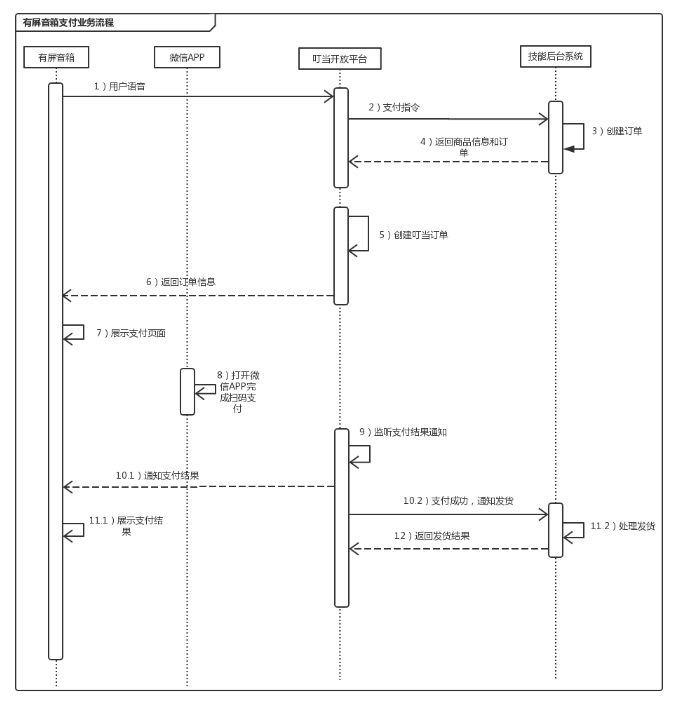
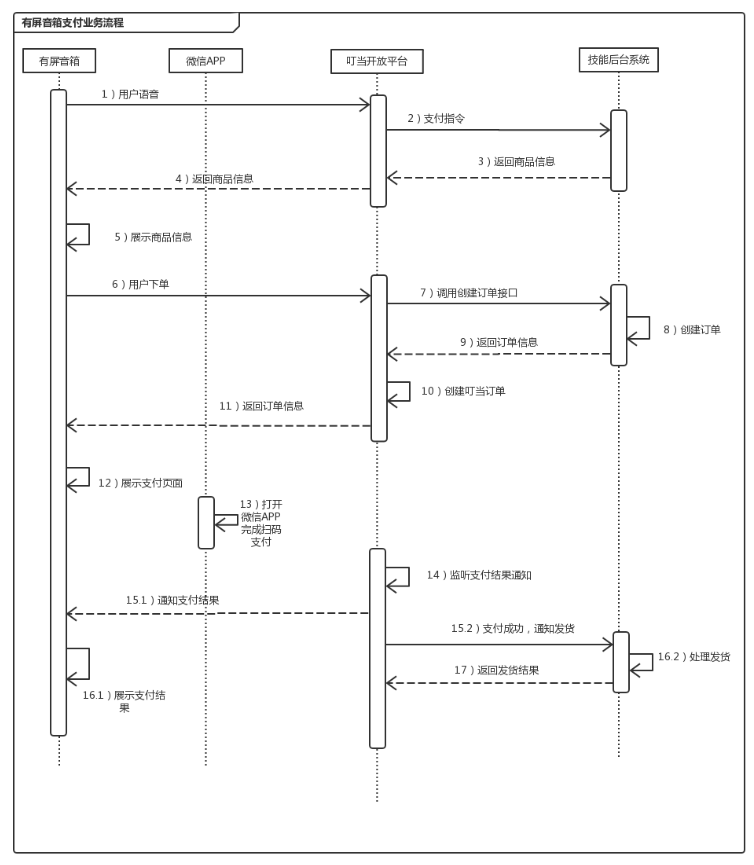
修改支付流程和协议字段、，添加新接口

Changed region(s): [[0.0, 0.0, 0.9956, 0.9958], [0.9022, 0.1556, 0.9333, 0.1867]]

diff --git a/documents/pay.md b/documents/pay.md
@@ -18,7 +18,43 @@
 
 **注意：该文档中的请求接口都需要安全验证，验证方法：[安全签名](./security.md)**
 
-### 1 通知发货
+### 1 创建订单
+
+用户下单时，叮当调用合作方提供的接口创建订单，合作商需要接收处理，并返回应答。
+
+**接口链接：合作方提供**
+
+**请求方法：post**
+
+ **参数说明：json格式**
+
+| 参数            | 必填 | 描述                   | 类型         |
+| --------------- | ---- | ---------------------- | ------------ |
+| `skillId`      | 是   | 技能ID，叮当平台分配   | `string(20)` |
+| `userId` | 是   | 合作方用户id | `string(32)` |
+| `itemId` | 是   | 合作方商品id，唯一标识商品 | `string(32)` |
+| `quantity` | 是 | 商品数量 | `int` |
+| `totalAmt`      | 是   | 订单总金额，以分为单位 | `long`    |
+| `nonceStr`      | 是   | 随机字符串             | `string(32)` |
+
+
+
+**返回参数：**
+
+| 参数      | 必填 | 描述                                  | 类型         |
+| --------- | ---- | ------------------------------------- | ------------ |
+| `retCode` | 是   | 返回码, SUCCESS/FAIL，SUCCESS表示成功 | `string(8)`  |
+| `retMsg`  | 否   | 错误描述                              | `string(32)` |
+
+**以下字段在retCode为SUCCESS时返回**
+
+| 参数      | 必填 | 描述                       | 类型         |
+| --------- | ---- | -------------------------- | ------------ |
+| `tradeNo` | 是   | 合作方订单号，需要保证唯一 | `string(64)` |
+
+
+
+### 2 通知发货
 
 用户支付成功后，叮当会通知合作商发货给用户，合作商需要接收处理，并返回应答。
 
@@ -34,10 +70,10 @@
 
 | 参数            | 必填 | 描述                   | 类型         |
 | --------------- | ---- | ---------------------- | ------------ |
-| `domainId`      | 是   | 技能ID，叮当平台分配   | `string(20)` |
+| `skillId`      | 是   | 技能ID，叮当平台分配   | `string(20)` |
 | `transactionId` | 是   | 叮当平台交易流水号     | `string(32)` |
 | `tradeNo`       | 是   | 合作方订单号           | `string(32)` |
-| `totalAmt`      | 是   | 订单总金额，以分为单位 | `int`        |
+| `totalAmt`      | 是   | 订单总金额，以分为单位 | `long`    |
 | `nonceStr`      | 是   | 随机字符串             | `string(32)` |
 
 
@@ -54,8 +90,7 @@
 
 
 
-
-### 2 查询订单
+### 3 查询订单
 
  **接口链接：https://aiwx.html5.qq.com/paycgi/orderquery**
 
@@ -65,7 +100,7 @@
 
 | 参数            | 必填   | 描述                                               | 类型         |
 | --------------- | ------ | -------------------------------------------------- | ------------ |
-| `domainId`      | 是     | 技能ID，叮当平台分配                               | `string(20)` |
+| `skillId`      | 是     | 技能ID，叮当平台分配                               | `string(20)` |
 | `transactionId` | 二选一 | 叮当平台交易流水号，`transactionId，tradeNo`二选一 | `string(32)` |
 | `tradeNo`       | 二选一 | 合作方订单号`transactionId，tradeNo`二选一         | `string(32)` |
 | `nonceStr`      | 是     | 随机字符串                                         | `string(32)` |
@@ -77,20 +112,20 @@
 | `retCode` | 是   | 返回码，SUCCESS/FAIL，SUCCESS表示成功 | `string(8)`  |
 | `retMsg`  | 否   | 错误描述                              | `string(32)` |
 
-**以下字段在retCode为0时返回**
+**以下字段在retCode为SUCCESS时返回**
 
 | 参数              | 必填 | 描述                                                         | 类型         |
 | ----------------- | ---- | ------------------------------------------------------------ | ------------ |
-| `domainId`        | 是   | 技能ID，叮当平台分配                                         | `string(20)` |
+| `skillId`        | 是   | 技能ID，叮当平台分配                                         | `string(20)` |
 | `transactionId`   | 是   | 叮当平台交易流水号                                           | `string(32)` |
 | `tradeNo`         | 是   | 合作方订单号                                                 | `string(32)` |
-| `totalAmt`        | 是   | 订单总金额，以分为单位                                       | `int`        |
+| `totalAmt`        | 是   | 订单总金额，以分为单位                                       | `long`    |
 | `tradeStatus`     | 是   | 订单状态， NOTPAY 未支付，PROCESSING支付中，SUCCESS支付成功，FAIL支付失败 | `string(16)` |
 | `tradeStatusDesc` | 是   | 订单状态描述                                                 | `string(16)` |
 
 
 
-### 3 申请退款
+### 4 申请退款
 
  **接口链接：https://aiwx.html5.qq.com/paycgi/refund**
 
@@ -100,12 +135,12 @@
 
 | 参数            | 必填   | 描述                   | 类型         |
 | --------------- | ------ | ---------------------- | ------------ |
-| `domainId`      | 是     | 技能ID，叮当平台分配   | `string(20)` |
+| `skillId`      | 是     | 技能ID，叮当平台分配   | `string(20)` |
 | `transactionId` | 二选一 | 叮当平台交易流水号     | `string(32)` |
 | `tradeNo`       | 二选一 | 合作方订单号           | `string(32)` |
 | `refundTradeNo` | 是     | 合作方退款订单号       | `string(32)` |
-| `totalAmt`      | 是     | 订单总金额，以分为单位 | `int`        |
-| `refundAmt`     | 是     | 退款总金额，以分为单位 | `int`        |
+| `totalAmt`      | 是     | 订单总金额，以分为单位 | `long`    |
+| `refundAmt`     | 是     | 退款总金额，以分为单位 | `long`   |
 | `refundDesc`    | 否     | 退款原因描述           | `string(64)` |
 | `nonceStr`      | 是     | 随机字符串             | `string(32)` |
 
@@ -116,21 +151,21 @@
 | `retCode` | 是   | 返回码，SUCCESS/FAIL，SUCCESS表示叮当平台受理退款申请 | `string(8)`  |
 | `retMsg`  | 否   | 错误描述                                              | `string(32)` |
 
-**以下字段在retCode为0时返回**
+**以下字段在retCode为SUCCESS时返回**
 
 | 参数                  | 必填 | 描述                   | 类型         |
 | --------------------- | ---- | ---------------------- | ------------ |
-| `domainId`            | 是   | 技能ID，叮当平台分配   | `string(20)` |
+| `skillId`            | 是   | 技能ID，叮当平台分配   | `string(20)` |
 | `transactionId`       | 是   | 叮当平台交易流水号     | `string(32)` |
 | `tradeNo`             | 是   | 合作方订单号           | `string(32)` |
 | `refundTransactionId` | 是   | 叮当平台退款订单号     | `string(32)` |
 | `refundTradeNo`       | 是   | 合作方退款订单号       | `string(32)` |
-| `totalAmt`            | 是   | 订单总金额，以分为单位 | `int`        |
-| `refundAmt`           | 是   | 退款总金额，以分为单位 | `int`        |
+| `totalAmt`            | 是   | 订单总金额，以分为单位 | `long`    |
+| `refundAmt`           | 是   | 退款总金额，以分为单位 | `long`    |
 
 
 
-### 4 查询退款
+### 5 查询退款
 
  **接口链接：https://aiwx.html5.qq.com/paycgi/refundquery**
 
@@ -140,7 +175,7 @@
 
 | 参数                  | 必填   | 描述                 | 类型         |
 | --------------------- | ------ | -------------------- | ------------ |
-| `domainId`            | 是     | 技能ID，叮当平台分配 | `string(20)` |
+| `skillId`            | 是     | 技能ID，叮当平台分配 | `string(20)` |
 | `refundTransactionId` | 二选一 | 叮当平台退款订单号   | `string(32)` |
 | `refundTradeNo`       | 二选一 | 合作方退款订单号     | `string(32)` |
 | `nonceStr`            | 是     | 随机字符串           | `string(32)` |
@@ -156,23 +191,23 @@
 | `retCode` | 是   | 返回码，SUCCESS/FAIL，SUCCESS表示成功 | `string(8)`  |
 | `retMsg`  | 否   | 错误描述                              | `string(32)` |
 
-**以下字段在retCode为0时返回**
+**以下字段在retCode为SUCCESS时返回**
 
 | 参数                  | 必填 | 描述                                                       | 类型         |
 | --------------------- | ---- | ---------------------------------------------------------- | ------------ |
-| `domainId`            | 是   | 技能ID，叮当平台分配                                       | `string(20)` |
+| `skillId`            | 是   | 技能ID，叮当平台分配                                       | `string(20)` |
 | `transactionId`       | 是   | 叮当平台交易流水号                                         | `string(32)` |
 | `tradeNo`             | 是   | 合作方订单号                                               | `string(32)` |
 | `refundTransactionId` | 是   | 叮当平台退款订单号                                         | `string(32)` |
 | `refundTradeNo`       | 是   | 合作方退款订单号                                           | `string(32)` |
-| `totalAmt`            | 是   | 订单总金额，以分为单位                                     | `int`        |
-| `refundAmt`           | 是   | 退款总金额，以分为单位                                     | `int`        |
+| `totalAmt`            | 是   | 订单总金额，以分为单位                                     | `long`    |
+| `refundAmt`           | 是   | 退款总金额，以分为单位                                     | `long`    |
 | `refundStatus`        | 是   | 退款状态， PROCESSING退款中，SUCCESS退款成功，FAIL退款失败 | `string(16)` |
 | `refundStatusDesc`    | 是   | 退款状态描述                                               | `string(16)` |
 
 
 
-### 5 退款结果通知
+### 6 退款结果通知
 
 此接口非必须，CP可以通过定时调用退款接口查询退款状态。 
 
@@ -184,13 +219,13 @@
 
 | 参数                  | 必填 | 描述                                                       | 类型         |
 | --------------------- | ---- | ---------------------------------------------------------- | ------------ |
-| `domainId`            | 是   | 技能ID，叮当平台分配                                       | `string(20)` |
+| `skillId`            | 是   | 技能ID，叮当平台分配                                       | `string(20)` |
 | `transactionId`       | 是   | 叮当平台交易流水号                                         | `string(32)` |
 | `tradeNo`             | 是   | 合作方订单号                                               | `string(32)` |
 | `refundTransactionId` | 是   | 叮当平台退款订单号                                         | `string(32)` |
 | `refundTradeNo`       | 是   | 合作方退款订单号                                           | `string(32)` |
-| `totalAmt`            | 是   | 订单总金额，以分为单位                                     | `int`        |
-| `refundAmt`           | 是   | 退款总金额，以分为单位                                     | `int`        |
+| `totalAmt`            | 是   | 订单总金额，以分为单位                                     | `long`    |
+| `refundAmt`           | 是   | 退款总金额，以分为单位                                     | `long`    |
 | `refundStatus`        | 是   | 退款状态， PROCESSING退款中，SUCCESS退款成功，FAIL退款失败 | `string(16)` |
 | `refundStatusDesc`    | 是   | 退款状态描述                                               | `string(16)` |
 | `nonceStr`            | 是   | 随机字符串                                                 | `string(32)` |
